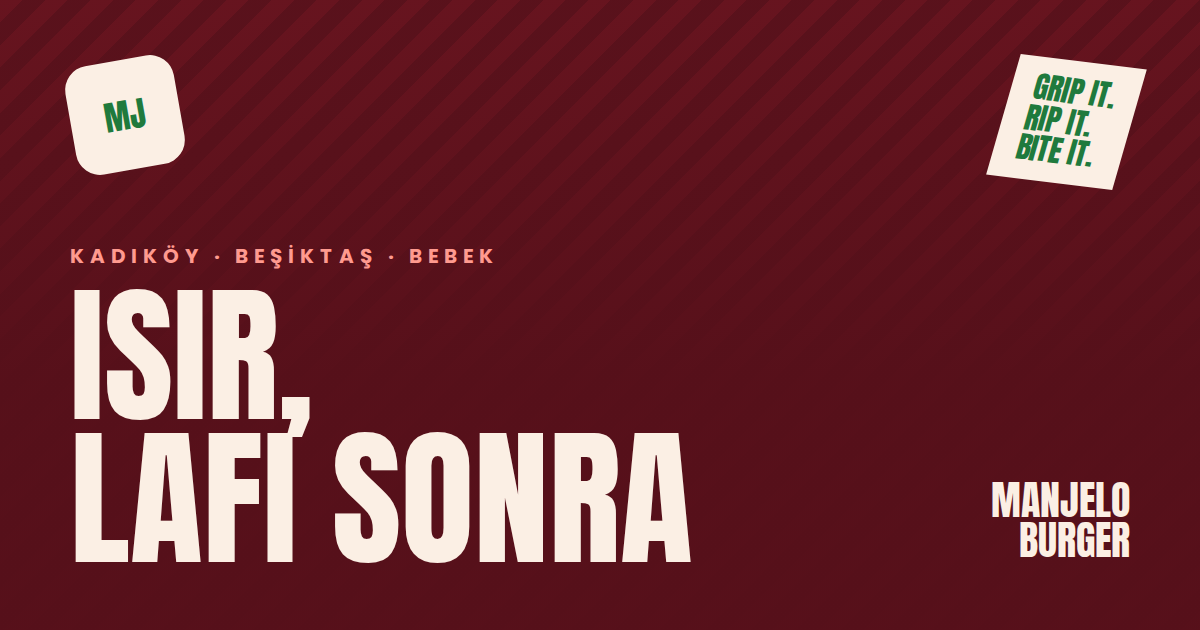
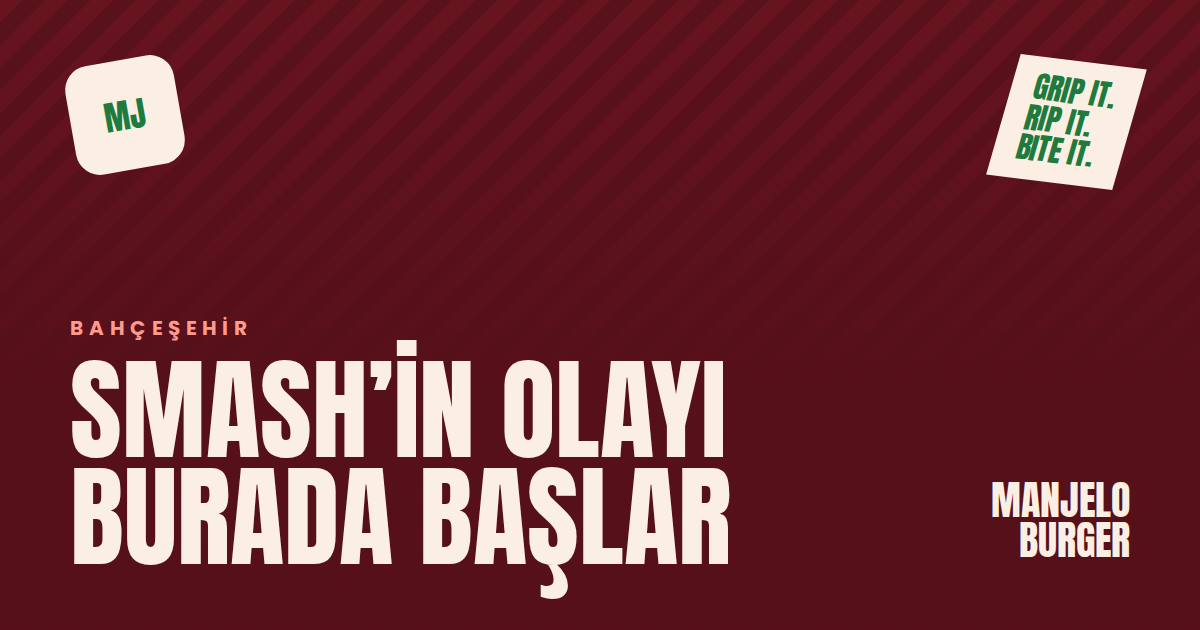
Tek şube (Bahçeşehir), yeni hero başlığı ve Instagram akışı
- Hero: "Smash'in olayı burada başlar", konum Bahçeşehir
- Şubeler: yalnızca Bahçeşehir, yol tarifi Google Haritalar linkine gidiyor
- Duvar: Behold JSON akışından son 6 Instagram paylaşımı (feed ID bekleniyor)
- Paylaşım görseli ve meta etiketleri güncellendi

Claude-Session: https://claude.ai/code/session_01V5u8Kh8h2AUhnb7K8jnwCa

Changed region(s): [[0.0617, 0.4524, 0.6167, 0.9651], [0.0617, 0.3921, 0.3083, 0.4222], [0.3392, 0.3921, 0.4317, 0.4222]]

diff --git a/public/index.html b/public/index.html
@@ -3,8 +3,8 @@
 <head>
   <meta charset="utf-8">
   <meta name="viewport" content="width=device-width, initial-scale=1">
-  <title>Manjelo Burger · Smash Burger · Kadıköy, Beşiktaş, Bebek</title>
-  <meta name="description" content="Smash patty, ev yapımı brioche, iki kat cheddar. Manjelo Burger; Kadıköy, Beşiktaş ve Bebek şubeleriyle her gün 12:00'den itibaren açık.">
+  <title>Manjelo Burger · Smash Burger · Bahçeşehir</title>
+  <meta name="description" content="Smash patty, ev yapımı brioche, iki kat cheddar. Manjelo Burger, Bahçeşehir'de.">
   <meta name="theme-color" content="#6B1520">
   <link rel="canonical" href="https://manjeloburger.com/">
   <link rel="icon" href="favicon.svg" type="image/svg+xml">
@@ -12,8 +12,8 @@
   <meta property="og:type" content="website">
   <meta property="og:locale" content="tr_TR">
   <meta property="og:site_name" content="Manjelo Burger">
-  <meta property="og:title" content="Manjelo Burger · Isır, lafı sonra">
-  <meta property="og:description" content="Smash patty, ev yapımı brioche, iki kat cheddar. Kadıköy · Beşiktaş · Bebek.">
+  <meta property="og:title" content="Manjelo Burger · Smash’in olayı burada başlar">
+  <meta property="og:description" content="Smash patty, ev yapımı brioche, iki kat cheddar. Bahçeşehir.">
   <meta property="og:url" content="https://manjeloburger.com/">
   <meta property="og:image" content="https://manjeloburger.com/images/paylasim.png">
   <meta name="twitter:card" content="summary_large_image">
@@ -52,8 +52,8 @@
         <div class="hero__alt">
           <div class="kap hero__izgara">
             <div>
-              <div class="hero__yer">Kadıköy · Beşiktaş · Bebek</div>
-              <h1>Isır,<br>lafı sonra</h1>
+              <div class="hero__yer">Bahçeşehir</div>
+              <h1>Smash’in olayı<br>burada başlar</h1>
             </div>
             <div>
               <p class="hero__metin">Günde iki kez pişen brioche, taş baskı smash patty, üç sos. Deneyimi tezgahta kuruyoruz.</p>
@@ -151,7 +151,7 @@
           <p>Manjelo, Amerikan diner kültürünü kopyalamak için değil; o kültürün doğrudanlığını buraya taşımak için açıldı. Kısa menü, yüksek ses, temiz malzeme.</p>
           <div class="sayilar">
             <div class="sayi"><strong>2023</strong><span>ilk tezgah</span></div>
-            <div class="sayi"><strong>3</strong><span>şube</span></div>
+            <div class="sayi"><strong>Smash</strong><span>tek teknik</span></div>
             <div class="sayi"><strong>%100</strong><span>dana kıyma</span></div>
           </div>
         </div>
@@ -162,48 +162,36 @@
     <section id="subeler" class="kap bolum">
       <h2 class="baslik">Şubeler</h2>
       <div class="subeler__izgara">
-        <div class="harita" aria-hidden="true">
-          <div class="harita__pin" style="top: 30%; left: 26%;"></div>
-          <div class="harita__pin" style="top: 56%; left: 58%;"></div>
-          <div class="harita__pin" style="top: 72%; left: 34%;"></div>
-        </div>
+        <a class="harita" href="https://share.google/wjhguoLqbdVJhkcKW" target="_blank" rel="noopener" aria-label="Bahçeşehir şubesini Google Haritalar'da aç">
+          <span class="harita__pin" style="top: 46%; left: 48%;"></span>
+          <span class="harita__etiket">BAHÇEŞEHİR</span>
+          <span class="harita__ac">Haritada aç →</span>
+        </a>
         <div class="sube-liste">
           <div class="sube">
             <div>
-              <h3>Kadıköy</h3>
-              <div class="sube__adres">Caferağa Mah. · Moda</div>
-              <div class="sube__saat">12:00 – 00:30</div>
+              <h3>Bahçeşehir</h3>
+              <!-- TODO: açık adres ve çalışma saatleri -->
+              <div class="sube__adres">Bahçeşehir · Başakşehir / İstanbul</div>
             </div>
-            <a class="sube__yol" href="https://www.google.com/maps/search/?api=1&amp;query=Manjelo+Burger+Kad%C4%B1k%C3%B6y" target="_blank" rel="noopener">YOL TARİFİ</a>
-          </div>
-          <div class="sube">
-            <div>
-              <h3>Beşiktaş</h3>
-              <div class="sube__adres">Sinanpaşa Mah. · Çarşı</div>
-              <div class="sube__saat">12:00 – 01:00</div>
-            </div>
-            <a class="sube__yol" href="https://www.google.com/maps/search/?api=1&amp;query=Manjelo+Burger+Be%C5%9Fikta%C5%9F" target="_blank" rel="noopener">YOL TARİFİ</a>
-          </div>
-          <div class="sube">
-            <div>
-              <h3>Bebek</h3>
-              <div class="sube__adres">Cevdetpaşa Cad.</div>
-              <div class="sube__saat">12:00 – 23:30</div>
-            </div>
-            <a class="sube__yol" href="https://www.google.com/maps/search/?api=1&amp;query=Manjelo+Burger+Bebek" target="_blank" rel="noopener">YOL TARİFİ</a>
+            <a class="sube__yol" href="https://share.google/wjhguoLqbdVJhkcKW" target="_blank" rel="noopener">YOL TARİFİ</a>
           </div>
         </div>
       </div>
     </section>
 
-    <section class="duvar">
+    <section class="duvar" id="instagram">
       <div class="kap bolum">
         <div class="duvar__ust">
           <h2 class="baslik">Duvar</h2>
           <span class="duvar__etiket">#MANJELOBURGER</span>
         </div>
-        <!-- Kare eklemek için: <div class="foto"><img src="images/duvar-1.jpg" alt="Müşteri karesi"></div> -->
-        <div class="duvar__izgara">
+        <!--
+          Instagram akışı: behold.so üzerinden Instagram hesabı bağlanıp oluşturulan
+          feed'in ID'si data-feed alanına yazılınca son 6 paylaşım otomatik gelir.
+          ID boşsa ya da akış yüklenemezse aşağıdaki MJ kareleri görünür.
+        -->
+        <div class="duvar__izgara" id="instagram-akis" data-feed="">
           <div class="foto"><span class="foto__mj" aria-hidden="true">MJ</span></div>
           <div class="foto"><span class="foto__mj" aria-hidden="true">MJ</span></div>
           <div class="foto"><span class="foto__mj" aria-hidden="true">MJ</span></div>
@@ -251,10 +239,12 @@
       </div>
       <div class="alt__son">
         <span>© 2026 Manjelo Burger · Her hakkı saklıdır</span>
-        <span>Kadıköy · Beşiktaş · Bebek</span>
+        <span>Bahçeşehir · İstanbul</span>
       </div>
     </div>
   </footer>
+
+  <script src="js/instagram.js" defer></script>
 
 </body>
 </html>

diff --git a/public/css/style.css b/public/css/style.css
@@ -189,7 +189,7 @@ img { display: block; max-width: 100%; }
 .hero h1 {
   font-family: var(--anton); font-weight: 400;
   color: var(--krem);
-  font-size: clamp(64px, 9vw, 150px);
+  font-size: clamp(50px, 7.4vw, 124px);
   line-height: .95;
   margin-top: 14px;
   text-transform: uppercase;
@@ -298,6 +298,21 @@ img { display: block; max-width: 100%; }
   overflow: hidden;
   background: repeating-linear-gradient(135deg, var(--bej-koyu) 0 12px, var(--bej) 12px 24px);
 }
+.harita { display: block; }
+.harita:hover { box-shadow: 5px 5px 0 rgba(107,21,32,.16); }
+.harita__etiket {
+  position: absolute; top: calc(46% - 44px); left: 48%; transform: translateX(-40%);
+  font-family: var(--anton); font-size: 15px; letter-spacing: 1px;
+  background: var(--bordo); color: var(--krem);
+  padding: 6px 12px; border-radius: 999px;
+}
+.harita__ac {
+  position: absolute; right: 16px; bottom: 14px;
+  font-family: var(--anton); font-size: 14px; letter-spacing: 1px;
+  color: var(--bordo); background: var(--krem);
+  padding: 8px 14px; border-radius: 999px; border: 2px solid var(--bordo);
+}
+.harita:hover .harita__ac { background: var(--bordo); color: var(--krem); }
 .harita__pin {
   position: absolute;
   width: 20px; height: 20px; border-radius: 50%;
@@ -329,6 +344,8 @@ img { display: block; max-width: 100%; }
 .duvar__etiket { font-size: 14px; font-weight: 700; letter-spacing: 1.6px; color: var(--kirmizi); }
 .duvar__izgara { display: grid; grid-template-columns: repeat(auto-fit, minmax(150px, 1fr)); gap: 12px; margin-top: 24px; }
 .duvar__izgara .foto { aspect-ratio: 1; border: 2px solid var(--bordo); border-radius: 16px; }
+a.foto img { transition: transform .3s; }
+a.foto:hover img { transform: scale(1.04); }
 .duvar__not {
   margin-top: 18px;
   display: flex; align-items: center; gap: 14px;

diff --git a/public/js/instagram.js b/public/js/instagram.js
@@ -1,0 +1,31 @@
+// Duvar bölümü: Behold (behold.so) JSON akışından son Instagram paylaşımlarını çeker.
+(function () {
+  var izgara = document.getElementById('instagram-akis');
+  var feed = izgara && izgara.getAttribute('data-feed');
+  if (!feed) return;
+
+  fetch('https://feeds.behold.so/' + encodeURIComponent(feed))
+    .then(function (r) { if (!r.ok) throw new Error(r.status); return r.json(); })
+    .then(function (veri) {
+      var postlar = (Array.isArray(veri) ? veri : veri.posts || []).slice(0, 6);
+      if (!postlar.length) return;
+      izgara.textContent = '';
+      postlar.forEach(function (p) {
+        var gorsel = (p.sizes && p.sizes.medium && p.sizes.medium.mediaUrl) ||
+          p.thumbnailUrl || p.mediaUrl;
+        if (!gorsel) return;
+        var a = document.createElement('a');
+        a.className = 'foto';
+        a.href = p.permalink;
+        a.target = '_blank';
+        a.rel = 'noopener';
+        var img = document.createElement('img');
+        img.src = gorsel;
+        img.loading = 'lazy';
+        img.alt = (p.prunedCaption || p.caption || 'Manjelo Burger Instagram paylaşımı').slice(0, 120);
+        a.appendChild(img);
+        izgara.appendChild(a);
+      });
+    })
+    .catch(function () { /* akış yüklenemezse MJ kareleri kalır */ });
+})();
